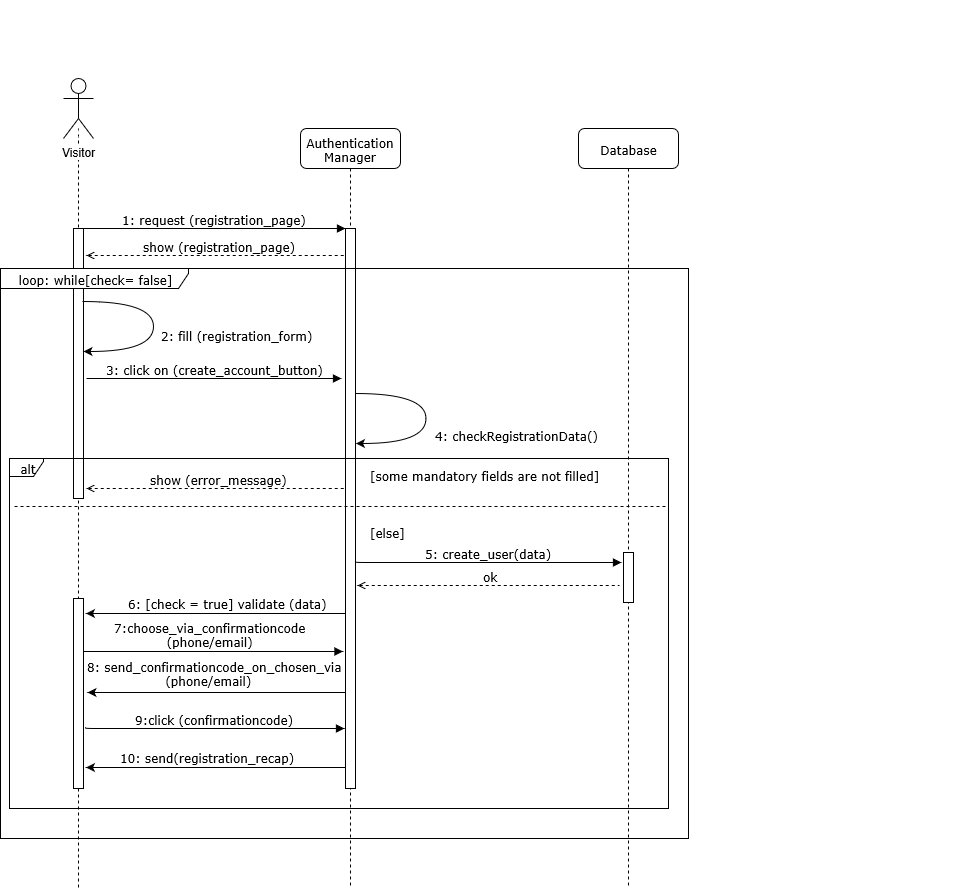
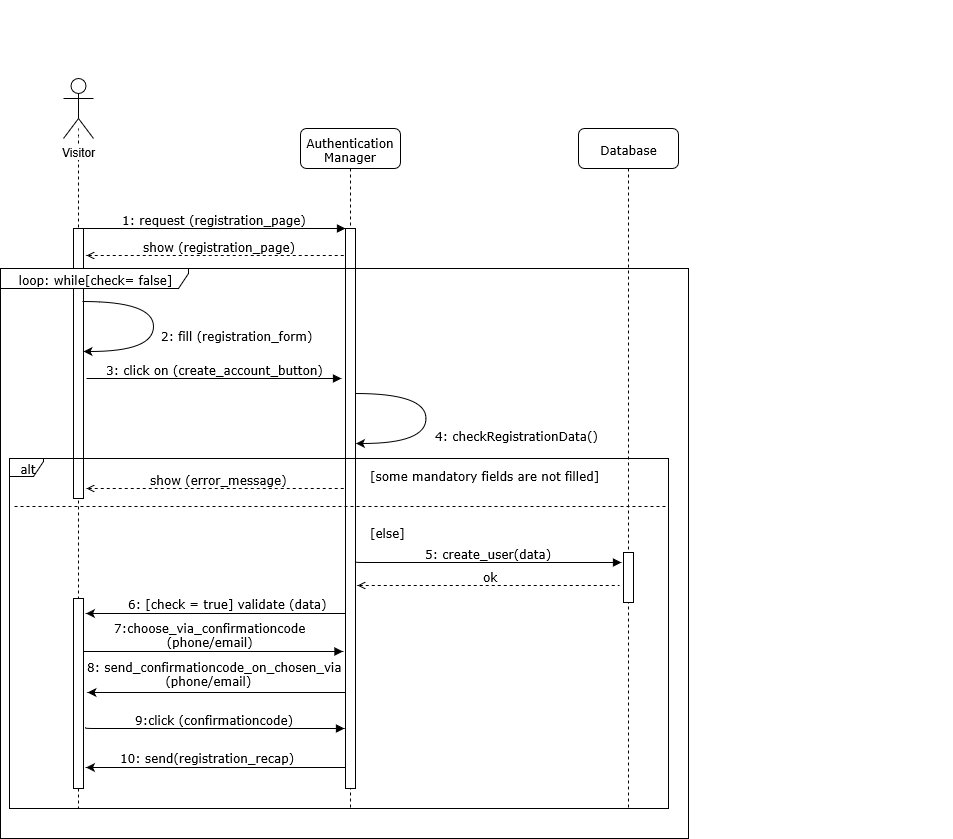
Aggiunta Sequence Diagram - Parte 2

diff --git a/RASD/Chapters/03-SpecificRequirements/02-FunctionalRequirements.tex b/RASD/Chapters/03-SpecificRequirements/02-FunctionalRequirements.tex
@@ -118,7 +118,7 @@
 
 \subsection{R3: Validation of reported violations}
 \begin{itemize}
-    \item Whenever a violation is reported by a user, it is sent to a random group of $k$ SafeStreets users
+    \item Whenever a violation is reported by a user, it is sent to a group of $k$ SafeStreets users
     \item Users who receive the notification about this approval process are then asked to approve or reject the report or declare neutral if they are not able to verify
     \item The report is validated if and only if the algebraic sum of approvals (+1), neutralities (0) and rejections (-1) is at least $v$
     \item Every user is supposed to respond, the system expects to receive $k$ answers
@@ -143,7 +143,7 @@
                 \hline
                 \textbf{Event flow} &
                 \begin{enumerate}
-                     \item The system sends a request to a number $k$ of users
+                    \item The system sends a request to a number $k$ of users
                     \item Users answer the poll
                     \item The system counts the answers and makes the algebraic sum $m$, considering that:
                     \begin{itemize}
@@ -249,6 +249,7 @@
                 \item The user writes the name of the new violation 
                 \item The user submits the report
                 \item The system checks the new category doesn't overlap with existing ones 
+                \item The system registers the new violation type
                 \item Validation procedure goes on as in Scenario 3
             \end{enumerate} \\
             \hline
@@ -279,11 +280,11 @@
             \hline
             \textbf{Goals} & R6 \\
             \hline
-            \textbf{Entry conditions} & A notification, including a vehicle, must have been made, validated and registered \\
+            \textbf{Entry conditions} & A notification, including a vehicle, must have been made, validated and registered.
+            The system has identified the license plate of the offender. \\
             \hline
             \textbf{Event flow} &
             \begin{enumerate}
-                \item The system has identified the license plate of the offender
                 \item The system updates the number of violations associated to that vehicle
                 \item The authority checks the history of violation related to the offender
                 \item The authority generates a traffic ticket

diff --git a/RASD/Chapters/05-EffortSpent/03-Angelica.tex b/RASD/Chapters/05-EffortSpent/03-Angelica.tex
@@ -14,5 +14,7 @@
     Use cases & 3 \\
     General review & 1 \\
     Definitions, acronyms, abbreviations and document structure & 0.5 \\
+    Traceability Matrix & 0.5 \\
+    Sequence Diagrams & 4 \\
   \end{tabular}
 \end{table}
